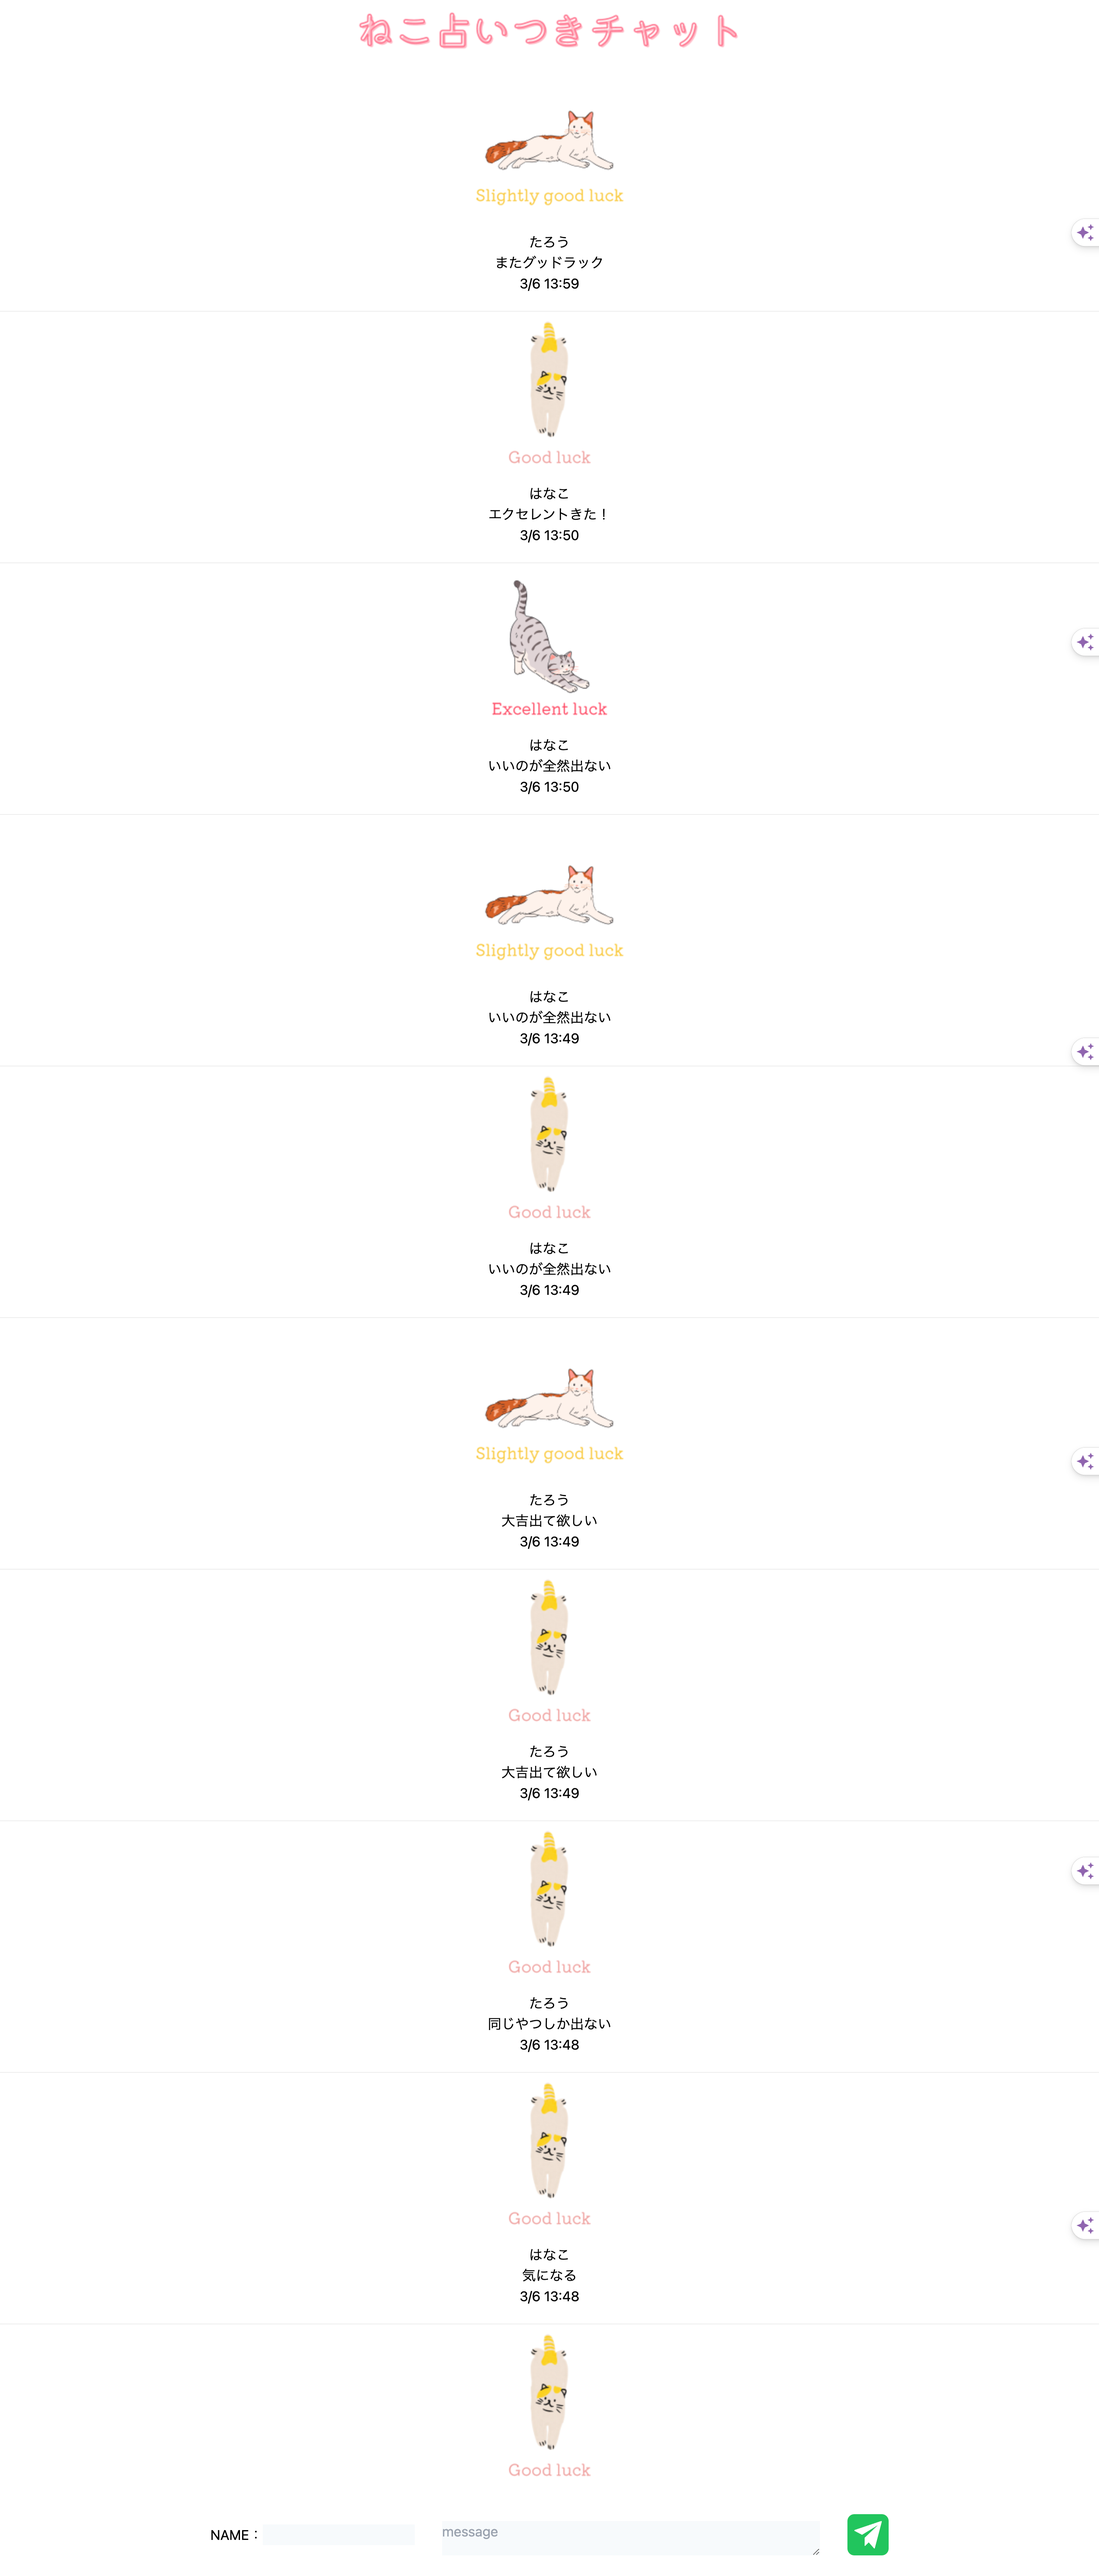
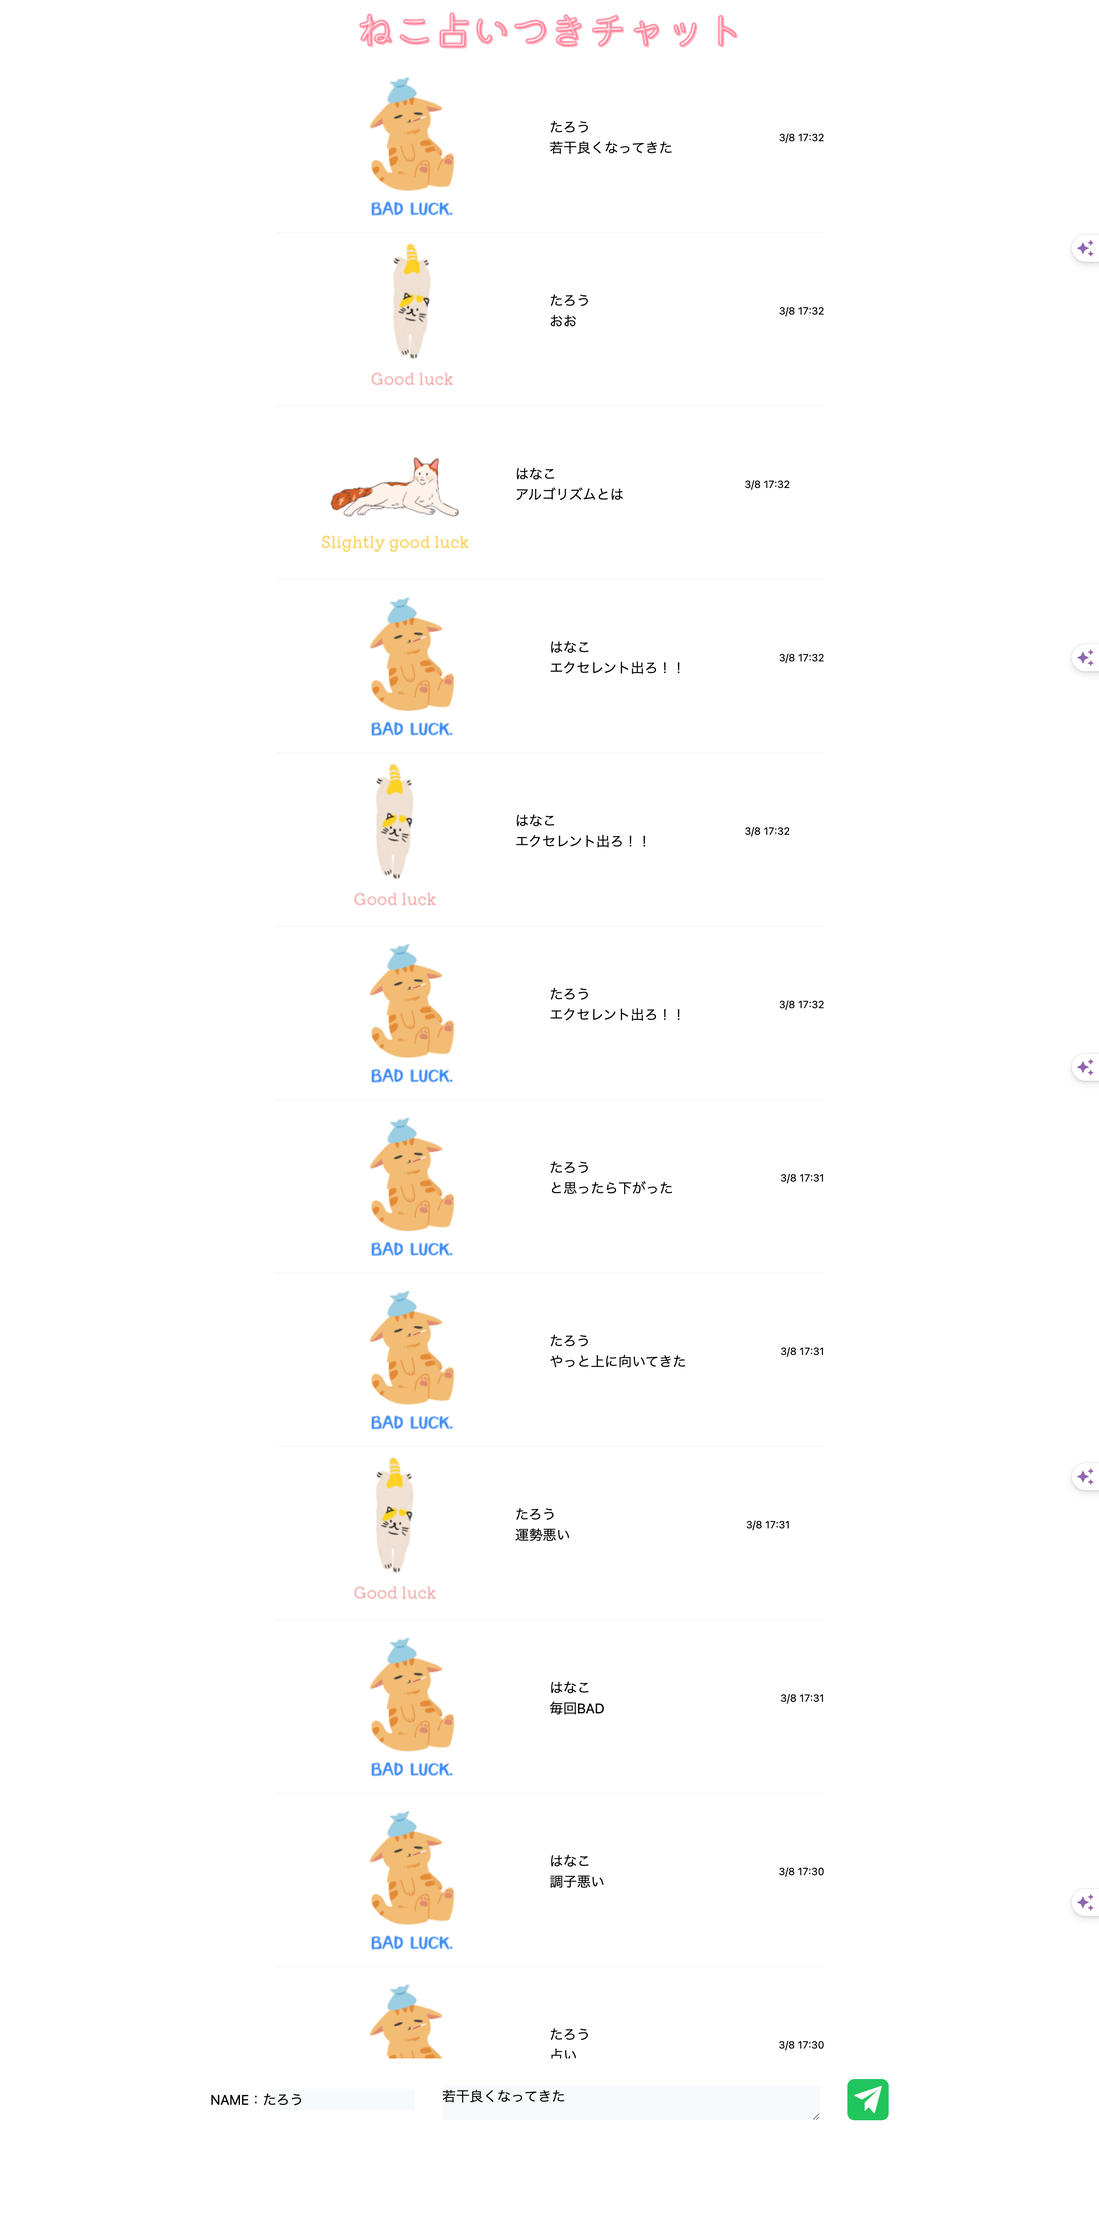
index修正

diff --git a/index.html b/index.html
@@ -12,11 +12,11 @@
       p {
         text-align: center;
         padding-bottom: 20px;
-        border-bottom: 1px solid #eee;
       }
       img {
         display: block;
         margin: 0 auto;
+        box-sizing: border-box;
       }
     </style>
   </head>
@@ -26,7 +26,7 @@
       <h1 class=""><img src="./img/logo.png" alt="logo" /></h1>
     </header>
     <div
-      class="flex align-center justify-center items-center bg-white z-50 fixed h-24 bottom-0 w-full magin-auto"
+      class="flex align-center justify-center items-center bg-white z-50 fixed h-24 bottom-0 w-full w-8/12 mx-auto"
     >
       <div>NAME：<input type="text" id="uname" class="bg-slate-50 mr-8" /></div>
       <div class="flex">
@@ -48,11 +48,10 @@
       </div>
     </div>
     <div>
-      <span id="uranai"></span>
       <div
         id="output"
         style="overflow: auto"
-        class="flex-col justify-center"
+        class="flex-col justify-center mb-28"
       ></div>
     </div>
 
@@ -79,7 +78,6 @@
       // Your web app's Firebase configuration
       const firebaseConfig = {
         //firebaseに接続するためのオブジェクト変数
-        
       };
 
       // Initialize Firebase
@@ -98,6 +96,28 @@
 
         return `${nowMon}/${nowDate} ${nowHour}:${nowMinute}`;
       }
+      //占い
+      function uranai() {
+        //ランダム関数
+        const r = Math.ceil(Math.random() * 5);
+        //条件分岐
+        let view = "";
+        if (r === 1) {
+          view =
+            '<img src="./img/excellentluck.png" alt="大吉" style="margin: 0 40px;">';
+        } else if (r === 2) {
+          view = '<img src="./img/goodluck.png" alt="中吉">';
+        } else if (r === 3) {
+          view =
+            '<img src="./img/goodluck.png" alt="小吉"  style="margin: 0 40px;">';
+        } else if (r === 4) {
+          view =
+            '<img src="./img/slightlygoodluck.png" alt="吉"  style="margin: 0 40px;">';
+        } else if (r === 5) {
+          view = '<img src="./img/badluck.png" alt="凶">';
+        }
+        return `${view}`;
+      }
 
       //送信
       $("#send").on("click", function () {
@@ -112,45 +132,40 @@
         set(newPostRef, msg); //ユニークキーとメッセージ両方をセットする
       });
 
+      //テンプレートリテラル
+      const p = '<p class="flex items-center justify-between w-2/4 text-left">';
+      const pEnd = "</p>";
+      const br = "<br>";
+      const div = "<div>";
+      const divFlex =
+        '<div class="flex mx-auto w-6/12 border-b-2 border-slate-50"">';
+      const divEnd = "</div>";
+      const span = '<span class="text-xs  ml-4">';
+      const spanEnd = "</span>";
+      const spanName = '<span class="text-sm font-bold mb-4">';
+
       onChildAdded(dbRef, function (data) {
         const msg = data.val(); //dataからデータを取ってくるFirebaseの関数
         const key = data.key; //ユニークキー
         //表示用テキスト・HTMLを作成
-        let h = "<p>";
-        h += msg.uranai;
-        h += msg.uname;
-        h += "<br>";
-        h += msg.text;
-        h += "<br>";
-        h += msg.time;
-        h += "</p>";
+        let h = `${divFlex}${msg.uranai}${p}${msg.uname}${br}${msg.text}${br}${span}${msg.time}${spanEnd}${pEnd}${divEnd}`;
         $("#output").prepend(h);
       });
-      //占い
-      //クリックイベント
-      $("#send").on("click", function () {
-        //結果表示
-        $("#uranai").html(view);
-      });
 
-      function uranai() {
-        //ランダム関数
-        const r = Math.ceil(Math.random() * 5);
-        //条件分岐
-        let view = "";
-        if (r === 1) {
-          view = '<img src="./img/excellentluck.png" alt="大吉">';
-        } else if (r === 2) {
-          view = '<img src="./img/goodluck.png" alt="中吉">';
-        } else if (r === 3) {
-          view = '<img src="./img/goodluck.png" alt="小吉">';
-        } else if (r === 4) {
-          view = '<img src="./img/slightlygoodluck.png" alt="吉">';
-        } else if (r === 5) {
-          view = '<img src="./img/badluck.png" alt="凶">';
-        }
-        return `${view}`;
-      }
+      // onChildAdded(dbRef, function (data) {
+      //   const msg = data.val(); //dataからデータを取ってくるFirebaseの関数
+      //   const key = data.key; //ユニークキー
+      //   //表示用テキスト・HTMLを作成
+      //   let h = "<p>";
+      //   h += msg.uranai;
+      //   h += msg.uname;
+      //   h += "<br>";
+      //   h += msg.text;
+      //   h += "<br>";
+      //   h += msg.time;
+      //   h += "</p>";
+      //   $("#output").prepend(h);
+      // });
     </script>
   </body>
 </html>
